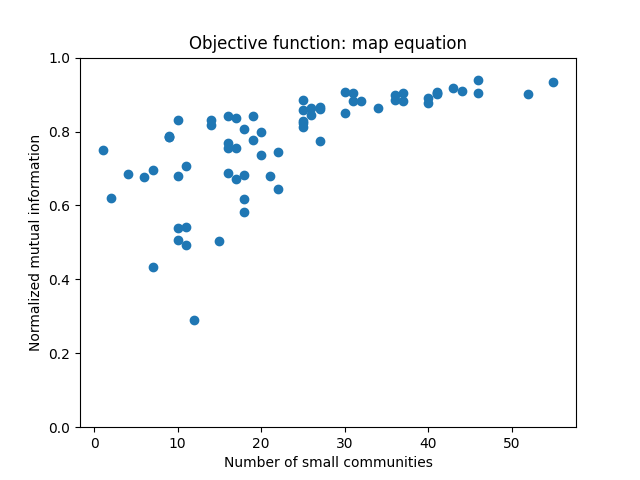
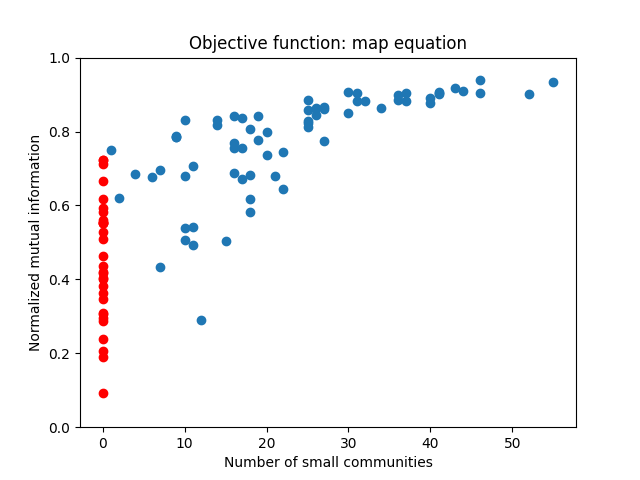
met alle stat erbij!

diff --git a/experiment/main.py b/experiment/main.py
@@ -102,6 +102,7 @@ def save_results(params,results):
 random.seed(15)
 
 "Uncomment the following code and run main.py to plot our results for different values of mu."
+''''
 mus = [0.05,0.1,0.15,0.2,0.25,0.3]
 n = 200
 comsizes = [(4, 20),(6, 30),(8, 40)]
@@ -110,8 +111,10 @@ main(mus, comsizes, num_runs, n)
 mus, comrange,num_runs, results = read_results()
 plot_mu_results_map(mus, comrange,num_runs, results)
 plot_mu_results_mod(mus, comrange,num_runs, results)
+'''
 
 "Uncomment the following code and run main.py to run our experiment and plot the results."
+'''
 n = 500
 mus = [0.25]
 num_runs = 2 
@@ -133,6 +136,7 @@ for i in range(1,8):
     comsizes.append((a, b+i*e))
 
 main(mus, comsizes, num_runs, n)
+'''
 mus, comrange,num_runs, results = read_results()
 
 # get data for scatter plot
@@ -146,6 +150,11 @@ r_sq = model.score(x, y)
 print(f"coefficient of determination: {r_sq}")
 print(f"intercept: {model.intercept_}")
 print(f"slope: {model.coef_}")
+
+X2 = sm.add_constant(x)
+est = sm.OLS(y, X2)
+est2 = est.fit()
+print(est2.summary())
 
 def regressie(x, intercept, coef):
     return x*coef+intercept
@@ -162,5 +171,5 @@ plt.savefig('plot'+'_num_small_'+'regressie'+str(mus[-1])+'.png')
 plt.show() 
 
 # make plots for modularity and map equation seperately
-plot_mod_or_map(mus, comrange,num_runs, 'map')
-plot_mod_or_map(mus, comrange,num_runs, 'mod')
+y1 = plot_mod_or_map(mus, comrange,num_runs, 'map', results)
+y2 = plot_mod_or_map(mus, comrange,num_runs, 'mod', results)

diff --git a/experiment/plotscatter.py b/experiment/plotscatter.py
@@ -34,7 +34,7 @@ def plot_scatter_data(mus, comrange,num_runs, results):
     return x,y
 
 # plot number of small communities against NMI for either modularity or map equation (scatter plot)
-def plot_mod_or_map(mus, comrange,num_runs, measure):
+def plot_mod_or_map(mus, comrange,num_runs, measure, results):
     mu = mus[-1]
     x = []
     y = []
@@ -68,8 +68,10 @@ def plot_mod_or_map(mus, comrange,num_runs, measure):
                     y_zero.append(ma)
             else:
                 x.append(eig)
-              
+    
+    x_zero = [0]*len(y_zero)
     plt.scatter(x, y)
+    plt.scatter(x_zero, y_zero, color = 'r')
     plt.title('Objective function: '+ title )
     plt.xlabel('Number of small communities')
     plt.ylabel('Normalized mutual information')
